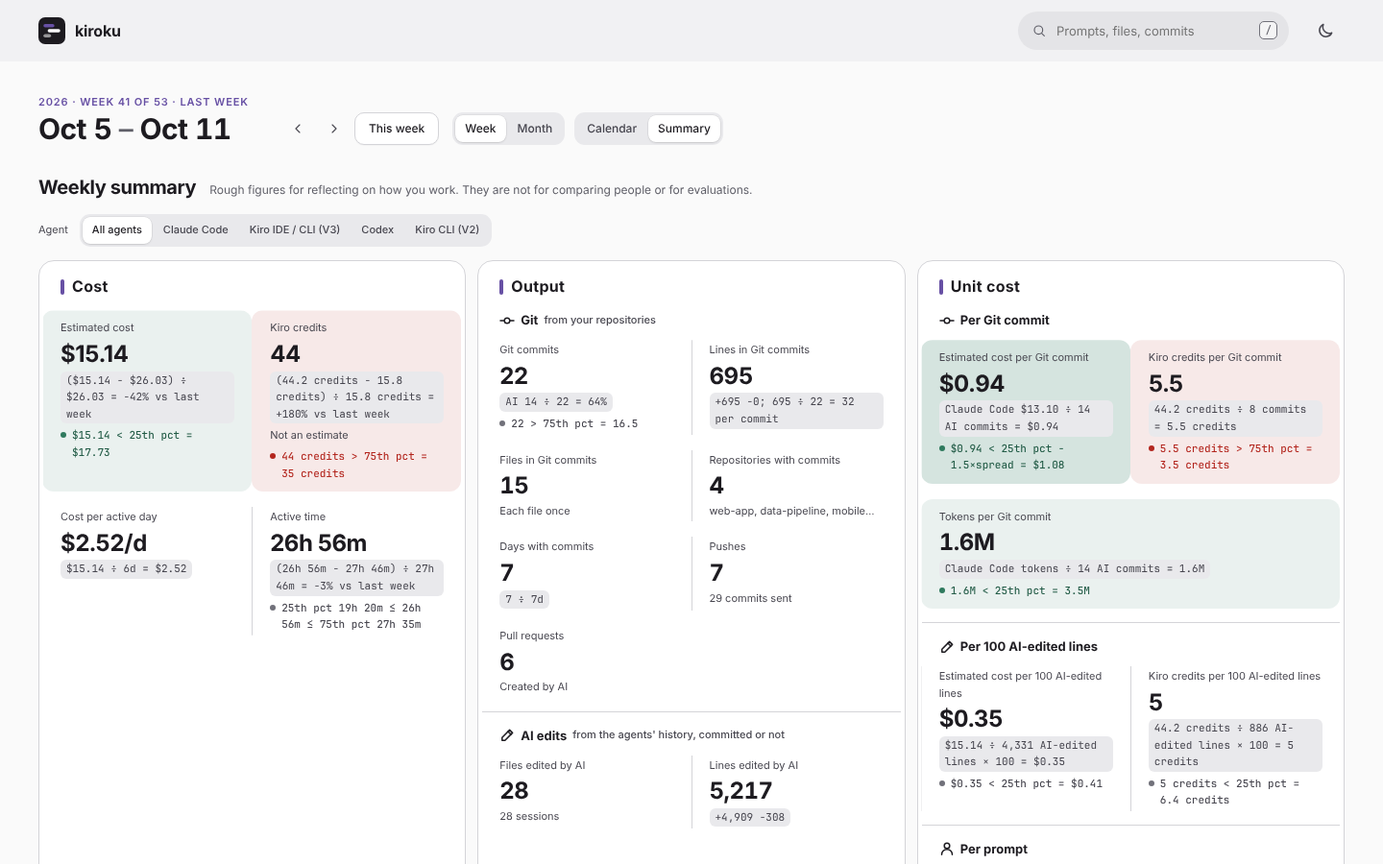
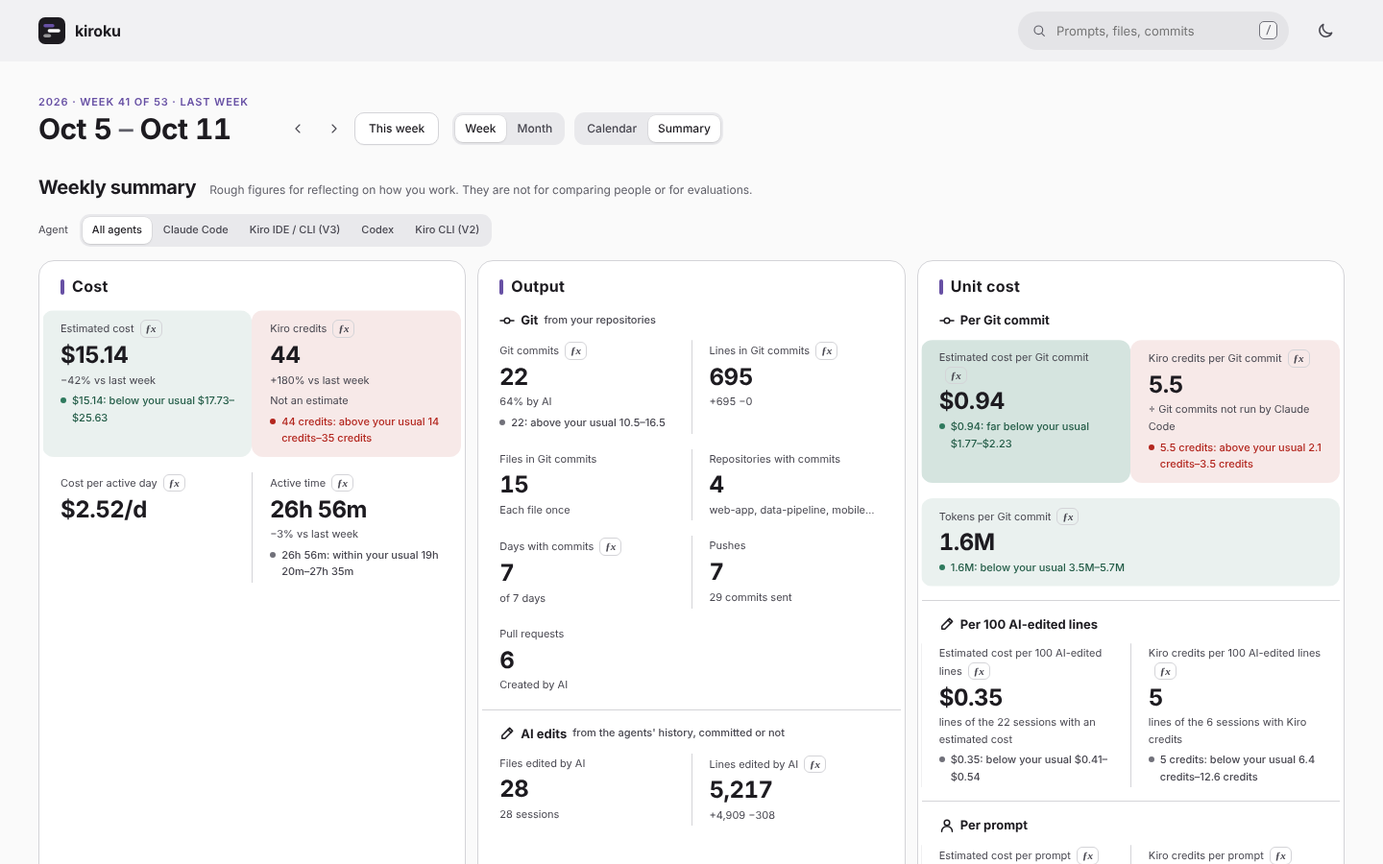
Summary: formulas behind an ƒx button per figure; readable chart cards
- Formulas are hidden by default again; each figure, stat and chart card
  gets an "ƒx" button next to its name that toggles its own formulas.
  Breakdown dialogs still always show theirs.
- From the user-tester review of the previous commit: chart cards go
  back to a 360px basis and the Trend, Cumulative and length charts are
  drawn in card-sized coordinates, so their text no longer shrinks to
  4-5px. Percent metrics use a 0-100% axis in the Trend. The length
  chart prints n under each bucket and highlights only buckets with two
  or more sessions ("on average" instead of "each"). Names cut off in
  narrow cards end with an ellipsis and carry the full text as a title.
  Japanese uses one word for "bin".

diff --git a/internal/web/js/insight.js b/internal/web/js/insight.js
@@ -31,7 +31,7 @@ const insNoun = () => st.mode === "month" ? (JA ? "月" : "months") : (JA ? "週
 const insUnit = n => n === 1 && !JA ? (st.mode === "month" ? "month" : "week") : st.mode === "month" ? t("months") : t("weeks"); // 日本語は数によらず「か月」「週」
 const say = (s, then) => (s ? `<p class="isay">${esc(s)}</p>` : "") + (then ? `<p class="ithen">→ ${esc(then)}</p>` : ""); // グラフの読み取り（データから計算した 1 文。見出しのすぐ下）
 // 式の表示：値・式は <code class="ifx"> に入れる（文ではなく、計算だとわかるように）
-// 式は「式を表示」のときだけ見せる（.fxo。ふだんは隠す）。plain があれば、ふだんはその平易な 1 行を出す（.fxp）
+// 式はサマリーでは、その数字の「ƒx」を押したときだけ見せる（.fxo。.fxon の中）。plain があれば、ふだんはその平易な 1 行を出す（.fxp）。ダイアログでは、いつも式を出す
 const fx = (s, cls = "", plain = "") => `<code class="ifx fxo${cls}">${esc(s)}</code>` + (plain ? `<span class="fxp${cls}">${esc(plain)}</span>` : "");
 const pln = s => `<span class="iplain">${esc(s)}</span>`; // 式ではない短い文（いつも見せる）
 // 四分位は記号でなく言葉で：下位25%点・上位25%点・幅（統計に慣れていなくても読めるように）
@@ -145,7 +145,9 @@ function insChart(k){
   const b = insBase(k), cur = ps[ps.length - 1], proj = b && b.part ? b.v : null;
   const vals = ps.map(x => x.v).filter(v => v != null); if (!vals.length) return `<p class="note">${esc(t("No records"))}</p>`;
   // 狭い画面は小さな座標で描く（縮めて文字が読めなくならないように）
-  const narrow = innerWidth < 600, W = narrow ? 360 : 720, Hh = narrow ? 180 : 200, L = narrow ? 52 : 64, R = 8, T = 12, B = 26, top = insNice(Math.max(...vals, proj || 0, b && b.q3 || 0) * 1.05);
+  // カードの幅（1 行に 2〜3 枚）に合う小さな座標で描く（大きな座標を縮めると、文字と点が読めないほど小さくなる）
+  const narrow = true, W = 360, Hh = 180, L = 52, R = 8, T = 12, B = 26, mx = Math.max(...vals, proj || 0, b && b.q3 || 0);
+  const top = MET[k] && MET[k].u === "%" && mx <= 100 ? 100 : insNice(mx * 1.05); // 割合は 100% まで（200% の軸では線が平らに見える）
   const bw = (W - L - R) / ps.length, x = i => L + i * bw, y = v => T + (Hh - T - B) * (1 - v / top);
   const ticks = [0, top / 2, top].map(v => `<g class="itk"><line x1="${L}" x2="${W - R}" y1="${y(v).toFixed(1)}" y2="${y(v).toFixed(1)}"/><text x="${L - 8}" y="${(y(v) + 4).toFixed(1)}">${esc(tickM(k, v))}</text></g>`).join("");
   const band = b && b.q1 != null ? `<rect class="iband" x="${L}" y="${y(b.q3).toFixed(1)}" width="${W - L - R}" height="${Math.max(1, y(b.q1) - y(b.q3)).toFixed(1)}"/><line class="imed" x1="${L}" x2="${W - R}" y1="${y(b.med).toFixed(1)}" y2="${y(b.med).toFixed(1)}"/>` : "";
@@ -213,6 +215,15 @@ function fitTrend(){ const g = $("#review .insk.trendk"); if (!g) return; const 
   if (bs[bs.length - 1].offsetTop !== bs[0].offsetTop || g.getBoundingClientRect().right > h.getBoundingClientRect().right + 1) h.classList.add("foldk"); }
 addEventListener("resize", () => fitTrend());
 function bindInsight(R){
+  // 式は、指標名の横の「ƒx」から、その数字（タイル・枠・グラフのカード）ごとに開く。ふだんは平易な 1 行だけを見せる
+  R.querySelectorAll(".insight .itile, .insight .stat, .insight .inscol").forEach(el => {
+    const own = [...el.querySelectorAll(".fxo, .ichip .cx")].some(f => f.closest(".itile, .stat, .inscol") === el); if (!own) return;
+    const lab = el.matches(".itile") ? el.querySelector(".il") : el.matches(".stat") ? el.querySelector(".k > span") : el.querySelector(":scope > h4, :scope > .inshead > h4, :scope h4"); if (!lab) return;
+    const name = (lab.textContent || "").trim(), b = document.createElement("button");
+    b.type = "button"; b.className = "fxb"; b.textContent = "ƒx"; b.setAttribute("aria-pressed", "false");
+    b.title = t("Show the formula"); b.setAttribute("aria-label", t("Show the formula: {name}", {name}));
+    b.onclick = e => { e.stopPropagation(); const on = el.classList.toggle("fxon"); b.setAttribute("aria-pressed", String(on)); b.title = on ? t("Hide the formula") : t("Show the formula"); };
+    lab.append(b); }); // 名前の要素の中に置く（カードは縦の flex なので、外に置くと横いっぱいの帯になる）
   requestAnimationFrame(fitTrend);
   R.querySelectorAll("[data-ins]").forEach(b => b.onclick = () => { st.insK = b.dataset.ins; store.set("insK", st.insK); summary(); const nb = $("#review").querySelector(`[data-ins="${CSS.escape(b.dataset.ins)}"]`); if (nb) nb.focus(); });
   R.querySelectorAll("[data-wk]").forEach(b => b.onclick = () => { st.insWk = b.dataset.wk; store.set("insWk", st.insWk); summary(); const nb = $("#review").querySelector(`[data-wk="${CSS.escape(b.dataset.wk)}"]`); if (nb) nb.focus(); });
@@ -296,7 +307,7 @@ function insCum(){
   const fr = insFrac(), n = Math.max(w.days.length, pw ? pw.days.length : 0), upto = fr < 1 ? Math.max(1, Math.ceil(fr * w.days.length)) : w.days.length;
   const cur = cum(w.days).slice(0, upto), prev = pw ? cum(pw.days) : []; // 前の期間は全部（月の日数が違っても、合計は前の月まるごと）
   const top = insNice(Math.max(...cur, ...prev, 0) * 1.05);
-  const narrow = innerWidth < 600, W = narrow ? 360 : 720, Hh = narrow ? 180 : 170, L = narrow ? 52 : 64, R = 10, T = 10, B = 24;
+  const narrow = true, W = 360, Hh = 180, L = 52, R = 10, T = 10, B = 24; // カードの幅に合う小さな座標（推移と同じ）
   const x = i => L + (W - L - R) * (n === 1 ? 0 : i / (n - 1)), y = v => T + (Hh - T - B) * (1 - v / top), line = a => a.map((v, i) => `${x(i).toFixed(1)},${y(v).toFixed(1)}`).join(" ");
   const ticks = [0, top / 2, top].map(v => `<g class="itk"><line x1="${L}" x2="${W - R}" y1="${y(v).toFixed(1)}" y2="${y(v).toFixed(1)}"/><text x="${L - 6}" y="${(y(v) + 4).toFixed(1)}">${esc(k === "credits" ? crN(v) : fm(v))}</text></g>`).join("");
   const a = new Date(period().ws * 1000), xl = [0, n - 1].map(i => `<text class="ixl ${i ? "e" : "s"}" x="${x(i).toFixed(1)}" y="${Hh - 6}">${esc(dMD(addDays(a, i)))}</text>`).join(""); // 両端の日付は、内側に寄せる（はみ出さないように）
@@ -320,17 +331,17 @@ const HISTK = ss => ss.some(s => s.cost > 0) ? {k: "cost", v: s => s.cost, f: us
   : ss.some(s => sesTok(s) > 0) ? {k: "tokens", v: s => sesTok(s), f: tok, n: t("tokens"), title: t("Tokens per session, by length")} : null;
 function insHist(){
   // 長さごとの、1 セッションあたりの量（推定費用、なければクレジット、それもなければトークン）。合計だと、セッションの多い区間が大きく見えるだけなので平均にする。
-  // 区間の合計とセッションの数は、ツールチップと読み取りの文に残す。量のないときは出さない
+  // 区間の合計とセッションの数は、ツールチップと読み取りの文に残す。強調するのは 2 セッション以上の区間（1 つだけでは傾向と言えない）。量のないときは出さない
   const {ws, we} = period(), all = DATA.filter(s => inP(s, ws, we)), K = HISTK(all); if (!K) return "";
   const ss = all.map(s => ({m: sesMin(s), c: K.v(s) || 0})).filter(x => x.m > 0); if (ss.length < 3) return "";
   const edges = [0, 5, 15, 30, 60, 120, Infinity], labs = ["<5m", "5–15m", "15–30m", "30–60m", "1–2h", "2h+"], useC = K.k === "cost";
   const bins = labs.map((_, i) => ss.filter(x => x.m >= edges[i] && x.m < edges[i + 1])), val = b => b.reduce((a, x) => a + x.c, 0);
-  const sums = bins.map(val), tot = sums.reduce((a, v) => a + v, 0), vs = bins.map((b, i) => b.length ? sums[i] / b.length : 0), mi = vs.indexOf(Math.max(...vs)), med = insQuant(ss.map(x => x.m), .5);
-  const max = Math.max(...vs) || 1, W = innerWidth < 600 ? 360 : 560, Hh = 180, B = 20, T = 16, bw = W / labs.length, fv = K.f;
+  const sums = bins.map(val), tot = sums.reduce((a, v) => a + v, 0), vs = bins.map((b, i) => b.length ? sums[i] / b.length : 0), many = vs.map((v, i) => bins[i].length >= 2 ? v : -1), mi = Math.max(...many) >= 0 ? many.indexOf(Math.max(...many)) : vs.indexOf(Math.max(...vs)), med = insQuant(ss.map(x => x.m), .5);
+  const max = Math.max(...vs) || 1, W = 360, Hh = 196, B = 34, T = 16, bw = W / labs.length, fv = K.f; // カードの幅に合う小さな座標。下に長さとセッションの数
   const bars = vs.map((v, i) => { const h = (Hh - B - T) * v / max, xx = i * bw;
     return `<rect class="ihb${i === mi ? " med" : ""}" x="${(xx + bw * .14).toFixed(1)}" y="${(Hh - B - h).toFixed(1)}" width="${(bw * .72).toFixed(1)}" height="${h.toFixed(1)}" rx="3"${tipAttr(labs[i], t("{v} per session", {v: fv(v)}), `${plural(bins[i].length, "session")} · ${t("total")} ${fv(sums[i])}`)}/>`
-      + (v ? `<text class="ihn" x="${(xx + bw / 2).toFixed(1)}" y="${(Hh - B - h - 4).toFixed(1)}">${esc(fv(v))}</text>` : "") + `<text class="ixl" x="${(xx + bw / 2).toFixed(1)}" y="${Hh - 4}">${labs[i]}</text>`; }).join(""); // 件数は棒のツールチップに（上の 1 文にも）
-  const sy = t("Sessions of {bin} took the most per session: {v} each ({sessions}, {pc}% of {metric} in total)", {bin: labs[mi], v: fv(vs[mi]), sessions: plural(bins[mi].length, "session"), pc: Math.round(sums[mi] * 100 / tot), metric: K.n});
+      + (v ? `<text class="ihn" x="${(xx + bw / 2).toFixed(1)}" y="${(Hh - B - h - 4).toFixed(1)}">${esc(fv(v))}</text>` : "") + `<text class="ixl" x="${(xx + bw / 2).toFixed(1)}" y="${Hh - 18}">${labs[i]}</text><text class="ixl ixn" x="${(xx + bw / 2).toFixed(1)}" y="${Hh - 4}">${esc(t("n={n}", {n: bins[i].length}))}</text>`; }).join(""); // 件数は棒のツールチップに（上の 1 文にも）
+  const sy = t("Sessions of {bin} took the most per session: {v} on average ({sessions}, {pc}% of {metric} in total)", {bin: labs[mi], v: fv(vs[mi]), sessions: plural(bins[mi].length, "session"), pc: Math.round(sums[mi] * 100 / tot), metric: K.n});
   const LC = useC ? longCtxOf(ws, we) : [];
   const th = mi >= 4 && LC.length ? t("{n} of the long sessions grew their input per response to up to {x}× the start: split them at a stopping point", {n: LC.length, x: Math.round(Math.max(...LC.map(s => s.ctx[1] / s.ctx[0])))}) : "";
   return `${say(sy, th)}<figure class="insfig ihist"><svg viewBox="0 0 ${W} ${Hh}" role="img" aria-label="${esc(labs.map((l, i) => `${l} ${t("{v} per session", {v: fv(vs[i])})} (${plural(bins[i].length, "session")})`).join(", "))}">${bars}</svg>
@@ -460,7 +471,7 @@ function insAgents(){
   const v = (x, f) => x > 0 ? esc(f(x)) : "—";
   const head = [t("Agent"), t("Active time"), t("Sessions"), t("Prompts"), t("Estimated cost"), t("Kiro credits"), t("Tokens")].map((h, i) => `<th scope="col"${i ? ' class="num"' : ""}>${esc(h)}</th>`).join("");
   const L = [t("Active time"), t("Sessions"), t("Prompts"), t("Estimated cost"), t("Kiro credits"), t("Tokens")].map(esc);
-  const rows = xs.map(x => `<tr><th scope="row"><span class="iwn"><i style="background:${x.c}"></i>${esc(x.key)}</span></th><td class="num" data-l="${L[0]}"><span class="iagb"><span style="width:${((x.minutes || 0) * 100 / max).toFixed(1)}%;background:${x.c}"></span></span>${v(x.minutes, dur)} <b>${Math.round((x.minutes || 0) * 100 / tot)}%</b></td><td class="num" data-l="${L[1]}">${commas(x.n[0])}</td><td class="num" data-l="${L[2]}">${commas(x.n[1])}</td><td class="num" data-l="${L[3]}">${v(x.cost, usd)}</td><td class="num" data-l="${L[4]}">${v(x.credits, cr)}</td><td class="num" data-l="${L[5]}">${v(x.tokens, tok)}</td></tr>`).join("");
+  const rows = xs.map(x => `<tr><th scope="row"><span class="iwn" title="${esc(x.key)}"><i style="background:${x.c}"></i>${esc(x.key)}</span></th><td class="num" data-l="${L[0]}"><span class="iagb"><span style="width:${((x.minutes || 0) * 100 / max).toFixed(1)}%;background:${x.c}"></span></span>${v(x.minutes, dur)} <b>${Math.round((x.minutes || 0) * 100 / tot)}%</b></td><td class="num" data-l="${L[1]}">${commas(x.n[0])}</td><td class="num" data-l="${L[2]}">${commas(x.n[1])}</td><td class="num" data-l="${L[3]}">${v(x.cost, usd)}</td><td class="num" data-l="${L[4]}">${v(x.credits, cr)}</td><td class="num" data-l="${L[5]}">${v(x.tokens, tok)}</td></tr>`).join("");
   const sy = t("{name}: {pc}% of {metric} ({v})", {name: xs[0].key, pc: Math.round(xs[0].minutes * 100 / tot), metric: t("Active time"), v: dur(xs[0].minutes)});
   return `${say(sy)}<figure class="insfig"><div class="iagw"><table class="iagt">
     <thead><tr>${head}</tr></thead><tbody>${rows}</tbody></table></div><p class="ifxs">${fx(`% = ${t("Active time")} ÷ ${dur(tot)}`)}${fx(t("Time that agents ran at once is split between them"))}</p></figure>`;
@@ -471,7 +482,7 @@ function insTokens(){
   const tot = rows.reduce((a, r) => a + r[2], 0); if (!tot) return "";
   const pc = v => Math.round(v * 100 / tot), inAll = (u.in || 0) + (u.cw || 0) + (u.cr || 0), b = insBase("cache");
   const bar = `<div class="itbar" role="img" aria-label="${esc(rows.map(r => `${r[1]} ${pc(r[2])}%`).join(", "))}">${rows.map(r => `<span style="flex:${r[2]};background:var(--c${r[3]})"${tipAttr(r[1], `${tok(r[2])} · ${pc(r[2])}%`)}></span>`).join("")}</div>`;
-  const list = rows.map(r => `<div class="iwr"><span class="iwn"><i style="background:var(--c${r[3]})"></i>${esc(r[1])}</span><span class="iwb"><span style="width:${(r[2] * 100 / Math.max(...rows.map(x => x[2]))).toFixed(1)}%;background:var(--c${r[3]})"></span></span><span class="iwv">${esc(tok(r[2]))}</span><b>${pc(r[2])}%</b></div>`).join("");
+  const list = rows.map(r => `<div class="iwr"><span class="iwn" title="${esc(r[1])}"><i style="background:var(--c${r[3]})"></i>${esc(r[1])}</span><span class="iwb"><span style="width:${(r[2] * 100 / Math.max(...rows.map(x => x[2]))).toFixed(1)}%;background:var(--c${r[3]})"></span></span><span class="iwv">${esc(tok(r[2]))}</span><b>${pc(r[2])}%</b></div>`).join("");
   const top = rows.reduce((a, r) => r[2] > a[2] ? r : a);
   const sy = t("{name}: {pc}% of tokens ({v})", {name: top[1], pc: pc(top[2]), v: tok(top[2])});
   const th = b && b.better === false ? (H().cache || {}).a || "" : "";

diff --git a/internal/web/style.css b/internal/web/style.css
@@ -877,6 +877,7 @@ header{background:var(--s-cont);border-bottom:0}
 .insfig .iband{fill:color-mix(in oklab,var(--ink) 8%,transparent)}.insfig .imed{stroke:var(--ink-3);stroke-dasharray:4 3;stroke-width:1.2} /* いつもの範囲は色みのない灰色（緑は「よい」の意味にだけ使う） */
 .insfig .ibar{fill:color-mix(in oklab,var(--acc) 30%,var(--surface))}.insfig .ibar.cur{fill:var(--acc)}
 .insfig .iline{fill:none;stroke:color-mix(in oklab,var(--acc) 55%,var(--surface));stroke-width:2;stroke-linejoin:round}.insfig .ipt{fill:var(--surface);stroke:var(--acc);stroke-width:2}.insfig .ipt.cur{fill:var(--acc)} /* 率の指標の推移は線と点 */
+.insfig .ixn{font-size:9px;fill:var(--ink-3)} /* 長さ別のグラフの、区間ごとのセッションの数 */
 .insfig .iproj{fill:none;stroke:var(--acc);stroke-dasharray:4 3;stroke-width:1.5}
 .insfig .iout{fill:var(--warn)}.insfig .ihit{fill:transparent}
 .insfig figcaption{display:flex;flex-wrap:wrap;gap:6px 14px;margin-top:6px;font-size:var(--fs-xs);color:var(--ink-2)}
@@ -968,7 +969,7 @@ header{background:var(--s-cont);border-bottom:0}
 /* どこに使ったか：大きい順の横棒（名前・棒・値・割合） */
 .iwrows{display:flex;flex-direction:column;gap:6px}
 .iwr{display:grid;grid-template-columns:minmax(0,30%) minmax(0,1fr) auto 3.2em;gap:10px;align-items:center;font-size:var(--fs-sm)}
-.iwn{display:flex;align-items:center;gap:6px;min-width:0;overflow:hidden;text-overflow:ellipsis;white-space:nowrap}.iwn i{flex:none;width:9px;height:9px;border-radius:50%}
+.iwn{display:block;min-width:0;overflow:hidden;text-overflow:ellipsis;white-space:nowrap}.iwn i{display:inline-block;width:9px;height:9px;border-radius:50%;margin-right:6px;vertical-align:-1px} /* 細いカードでは名前を「…」で切る（全文は title） */
 .iwb{height:12px;background:var(--surface-2);border-radius:4px;overflow:hidden}.iwb>span{display:block;height:100%;border-radius:4px}
 .iwv{color:var(--ink-2);font-variant-numeric:tabular-nums;text-align:right}.iwr b{text-align:right;font-variant-numeric:tabular-nums}
 /* いちばん変えたファイル：名前はパス（等幅・はみ出しは省略）。押すと、そのファイルをいちばん変えたセッション */
@@ -1053,8 +1054,10 @@ header{background:var(--s-cont);border-bottom:0}
 .themebtn svg{width:20px;height:20px;fill:none;stroke:currentColor;stroke-width:1.8;stroke-linecap:round;stroke-linejoin:round}
 .themebtn .sun,:root[data-theme="dark"] .themebtn .moon{display:none}:root[data-theme="dark"] .themebtn .sun{display:block}
 /* 式は「式を表示」のときだけ（ふだんは平易な 1 行と、言葉のチップ） */
-:root:not(.showfx) .fxo,:root:not(.showfx) .insdef,:root:not(.showfx) .ichip .cx{display:none}
-:root.showfx .fxp,:root.showfx .ichip .cp{display:none}
+.fxp,.ichip .cp{display:none} /* ダイアログでは式を出し、平易な 1 行は出さない */
+#review .fxo:not(.fxon *),#review .ichip .cx:not(.fxon *){display:none} /* サマリーでは、式はその数字の「ƒx」で開いたときだけ */
+#review .fxp:not(.fxon *),#review .ichip .cp:not(.fxon *){display:inline}
+#review .insight:not(:has(.fxon)) .insdef{display:none}
 .fxp,.iplain{font-size:var(--fs-xs);color:var(--ink-2)}
 /* エージェントの切り替えは、狭い画面でも隠さずに折り返す */
 .insagbar .segc{flex-wrap:wrap;overflow:visible}
@@ -1078,11 +1081,11 @@ header{background:var(--s-cont);border-bottom:0}
 .lim{padding:0 3px;border-radius:3px}
 /* 上限の印から開いたときの、流れの中のその出来事 */
 .tl li.ev.flash{outline:2px solid var(--warn);outline-offset:2px}
-:root:not(.showfx) .ichip{font-family:var(--sans)} /* 言葉のチップは、式の等幅でなく本文の字で */
+#review .ichip:not(.fxon *){font-family:var(--sans)} /* 言葉のチップは、式の等幅でなく本文の字で */
 /* サマリーのグラフのカードは 2 列（1000px 以下は 1 列）。.full は幅いっぱい */
 .insg{display:flex;flex-direction:column;gap:16px}
 .insrow{display:flex;flex-wrap:wrap;gap:16px;align-items:stretch}
-.insrow>.inscol{flex:1 1 290px;min-width:0;container-type:inline-size} /* グラフのカードも、広い画面では 1 行に 3 枚、狭くなると 2 枚・1 枚 */
+.insrow>.inscol{flex:1 1 360px;min-width:0;container-type:inline-size} /* グラフのカードも、広い画面では 1 行に 3 枚、狭くなると 2 枚・1 枚 */
 @container (max-width:720px){.iout2{grid-template-columns:minmax(0,1fr)}} /* 出力のカードが狭いときは、Git と AI の編集を縦に並べる */
 /* トレンドの指標：広い画面は切り替え、狭い画面は選択リスト（横に隠れて選べなくならないように） */
 .insksel{display:none}
@@ -1134,3 +1137,7 @@ body.open .drawer.flowfull{width:100vw;height:100dvh;max-height:none;border-radi
 .drawer.flowfull .scols{display:block}.drawer.flowfull .scols>:not(.sflow),.drawer.flowfull .sflags{display:none}
 .drawer.flowfull .sflow{max-width:960px;margin:0 auto}
 .drawer .flowhd .ffull{height:28px;padding:0 10px;display:inline-flex;align-items:center;gap:6px;font-size:var(--fs-xs)}.drawer .flowhd .ffull .i{width:14px;height:14px}
+
+/* 式を開く「ƒx」：指標名のすぐ横に小さく。押している間は塗る */
+.fxb{margin-left:6px;padding:0 5px;border:1px solid var(--rule);border-radius:6px;background:none;color:var(--ink-2);font:italic 600 var(--fs-xs)/1.5 var(--serif,Georgia,serif);cursor:pointer;vertical-align:baseline}
+.fxb:hover{color:var(--acc-ink);border-color:var(--acc)}.fxb[aria-pressed="true"]{background:var(--acc);border-color:var(--acc);color:var(--on-acc)}

diff --git a/internal/web/js/i18n.js b/internal/web/js/i18n.js
@@ -915,8 +915,12 @@ const JA_TEXT = {
   "{v} per session": "1 セッションあたり {v}",
   "total": "合計",
   "per session": "1 セッションあたり",
-  "sessions of the bin": "区間のセッションの数",
-  "Sessions of {bin} took the most per session: {v} each ({sessions}, {pc}% of {metric} in total)": "1 セッションあたりがいちばん多いのは {bin} のセッション：1 つあたり {v}（{sessions}、{metric}の合計の {pc}%）",
+  "sessions of the bin": "区分のセッションの数",
+  "Sessions of {bin} took the most per session: {v} on average ({sessions}, {pc}% of {metric} in total)": "1 セッションあたりがいちばん多いのは {bin} のセッション：平均 {v}（{sessions}、{metric}の合計の {pc}%）",
+  "Show the formula: {name}": "式を見る：{name}",
+  "Hide the formula": "式を隠す",
+  "Show the formula": "式を見る",
+  "n={n}": "{n} 件",
 };
 // t は英語の文 s を今の言語にする。{name} は vars の値で埋める（日本語では語順が変わるので、文ごと鍵にする）
 function t(s, vars){

diff --git a/internal/web/js/summary.js b/internal/web/js/summary.js
@@ -2,7 +2,6 @@
 /* ── 週次・月次サマリー：① プロジェクト別 ② コストとアウトプット ③ 時間 ④ AI ⑤ かたち。基準を超えた指標には、その場に印と推移を付ける ── */
 function summary(){
   const {S:w, P:pw} = period(), R = $("#review"), M = st.mode === "month", unit = M ? "月" : "週";
-  document.documentElement.classList.add("showfx"); // 式はいつも出す（切り替えのボタンは置かない）
   const head = `<div class="rvhead"><h2>${esc(M ? t("Monthly summary") : t("Weekly summary"))}</h2><p>${esc(t("Rough figures for reflecting on how you work. They are not for comparing people or for evaluations."))}</p></div>`;
   $("#sres").hidden = true; $("#sres").innerHTML = "";
   if (!w){ R.innerHTML = foot(); return; } // 記録がないことは、上の数字とカレンダーで言っている（3 度言わない）

diff --git a/docs/guide.md b/docs/guide.md
@@ -161,7 +161,7 @@ Things to know:
 
 ![Weekly summary (dummy data)](summary.png)
 
-The summary opens with an overview of charts, computed in the browser from your history (no AI). Figures are compared with your own past periods in plain words, such as "$31.23: above your usual $19.92–$27.35". Formulas are always shown: the same comparisons as inequalities in a monospace box, such as `$31.23 > 75th pct = $27.35` or `25th pct $13.42 ≤ $18.26 ≤ 75th pct $27.35`, and the formulas behind computed figures. The 25th and 75th pct are the values a quarter of the way from the bottom and from the top when up to your last 12 weeks or months with records are sorted (periods before your history starts are left out), so half of them fall between; spread = 75th pct − 25th pct, and a value beyond 75th pct + 1.5×spread or 25th pct − 1.5×spread is marked as such. They need 4 past periods. In a period in progress, cost, time and counts are compared at their pace: pace = so far × days in the period ÷ days elapsed. Figures computed from others show their formula, such as cost per Git commit = Claude Code cost ÷ AI commits, the share outside working hours = off-hours time ÷ session time, or the difference from the previous period on the same day.
+The summary opens with an overview of charts, computed in the browser from your history (no AI). Figures are compared with your own past periods in plain words, such as "$31.23: above your usual $19.92–$27.35". The "ƒx" button next to a figure's or a chart's name shows its formulas (press it again to hide them): the same comparisons as inequalities in a monospace box, such as `$31.23 > 75th pct = $27.35` or `25th pct $13.42 ≤ $18.26 ≤ 75th pct $27.35`, and the formulas behind computed figures. The 25th and 75th pct are the values a quarter of the way from the bottom and from the top when up to your last 12 weeks or months with records are sorted (periods before your history starts are left out), so half of them fall between; spread = 75th pct − 25th pct, and a value beyond 75th pct + 1.5×spread or 25th pct − 1.5×spread is marked as such. They need 4 past periods. In a period in progress, cost, time and counts are compared at their pace: pace = so far × days in the period ÷ days elapsed. Figures computed from others show their formula, such as cost per Git commit = Claude Code cost ÷ AI commits, the share outside working hours = off-hours time ÷ session time, or the difference from the previous period on the same day.
 
 Each chart opens with a takeaway computed from the data (for example "At this pace $22.86: 4th highest of 6 weeks; −$2.45 from the median $25.31") and, where the data supports one, a next step with numbers (for example "To stay within the previous period's $31.23: at most $12.97 in the 1 day left"). Cards in the same row are the same height.
 

diff --git a/changes/trend-lines.changed.md b/changes/trend-lines.changed.md
@@ -1,3 +1,5 @@
 - Summary: the Trend draws rates (per Git commit, per 100 AI-edited lines, cache, corrections, wait) as a line with points, and keeps bars for totals (cost, Kiro credits, tokens, time)
 - Summary: the session length chart shows the average per session in each length bucket ("Cost per session, by length") instead of the bucket's total, which mostly showed which bucket had the most sessions; the total and the number of sessions are in the tooltip
-- Summary layout: cards sit three to a row from narrower windows on, so fewer rows end with a card on its own
+- Summary layout: the figure cards sit three to a row down to narrower windows, so fewer rows end with a card on its own
+- Summary: formulas are hidden by default again, and each figure and chart has an "ƒx" button next to its name that shows its own formulas; breakdown dialogs still always show theirs
+- Summary: the chart cards are drawn at the card's size, so their text stays readable three to a row; percentages in the Trend use a 0–100% axis; the session length chart prints the number of sessions under each bucket and highlights only buckets with two or more sessions; names cut off in narrow cards end with "…"
